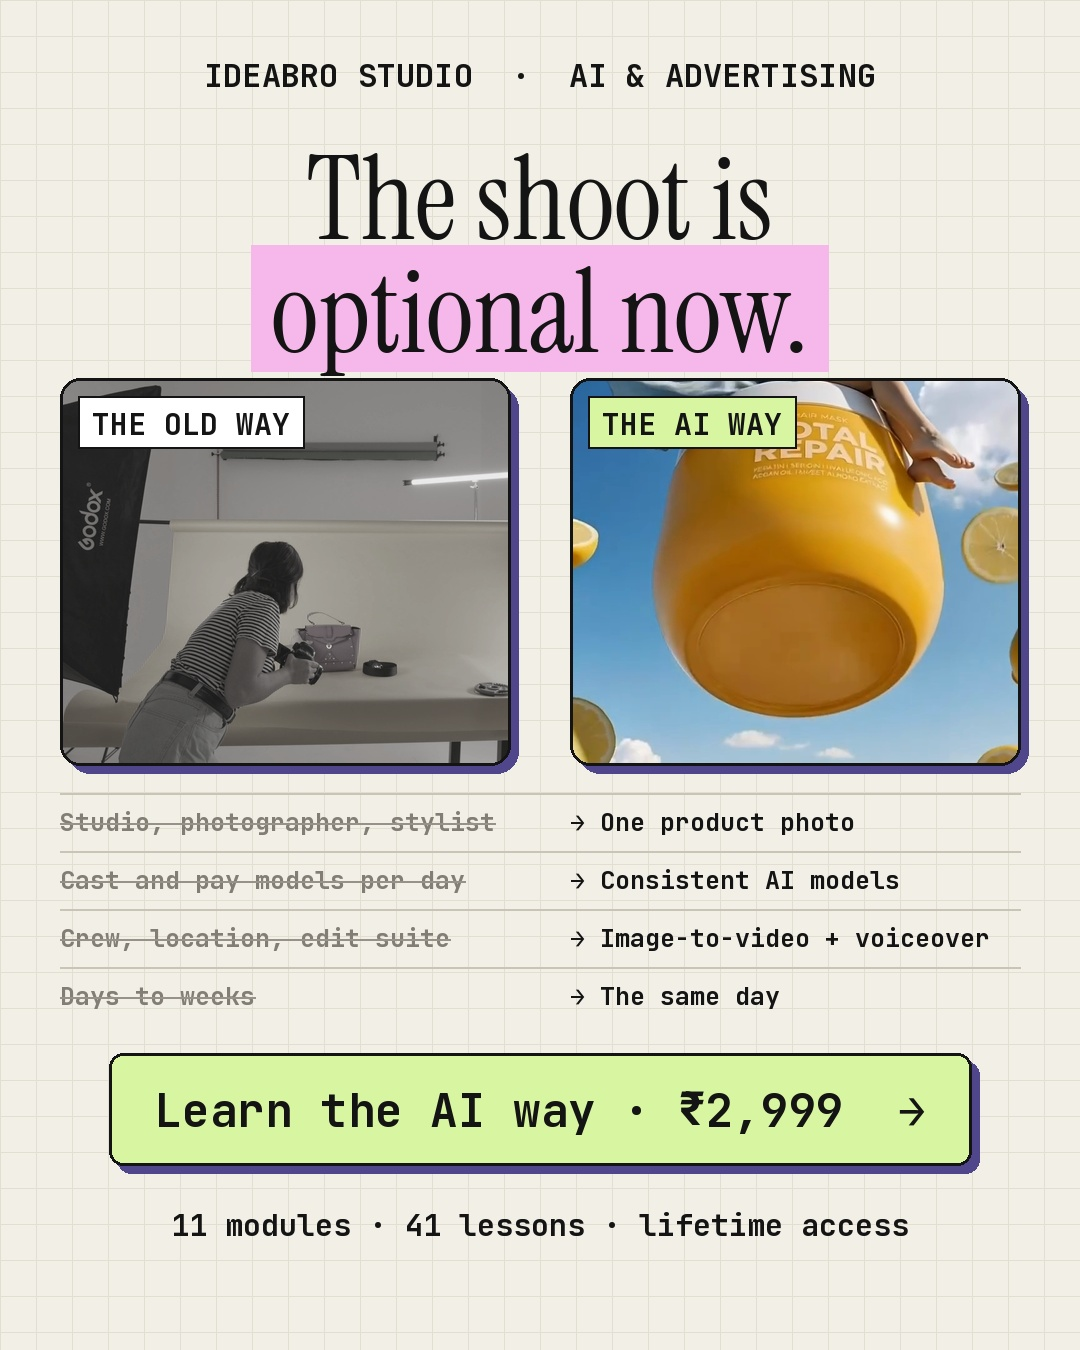
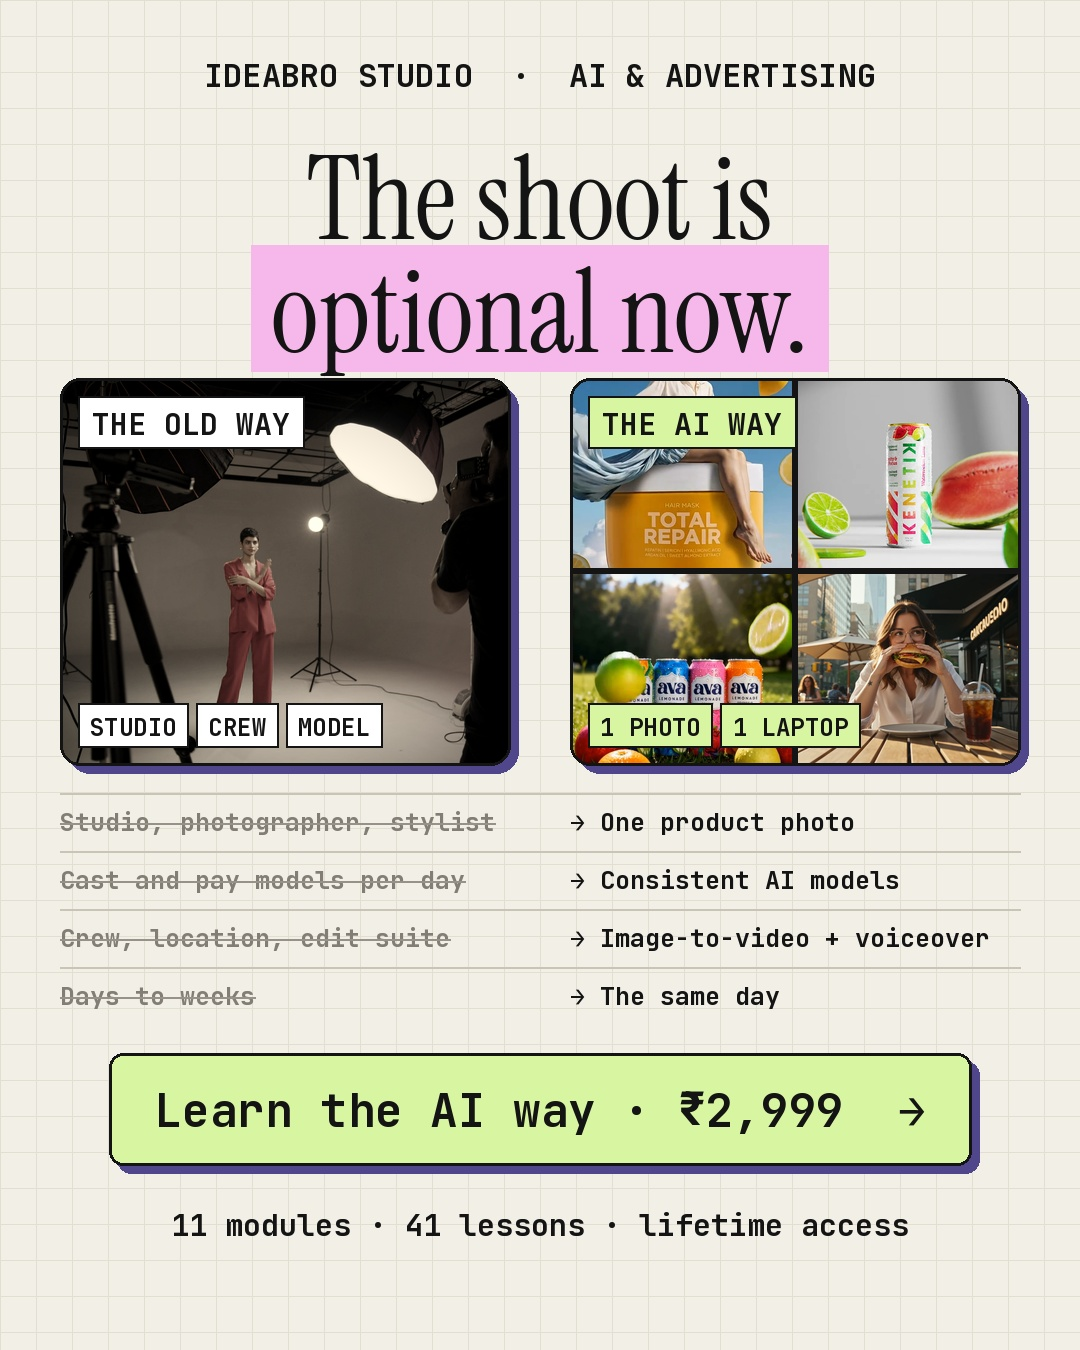
Ad 4: replace basic photos with studio production shot and AI output grid
Claude-Session: https://claude.ai/code/session_01SGFKi76PsVsa1eXjXUfYki

Changed region(s): [[0.5194, 0.28, 0.9472, 0.5911], [0.0611, 0.28, 0.4889, 0.5911]]

diff --git a/meta-ads-plan/ads/ad4_static.py b/meta-ads-plan/ads/ad4_static.py
@@ -16,10 +16,34 @@ ROWS = [("Studio, photographer, stylist", "One product photo"),
 
 
 def photo(src, t, w, h, fx=0.5, gray=False):
-    f = K.decode(src, t, 0.05, w, h, fx)[0]
-    if gray:
-        g = f.mean(axis=2, keepdims=True); f = (g * 0.9 + f * 0.1).astype(np.uint8); f = (f * 0.86 + 20).astype(np.uint8)
-    return Image.fromarray(f)
+    f = K.decode(src, t, 0.05, w, h, fx)[0].astype(np.float32)
+    if gray:   # muted, cinematic "old way" grade: mostly desaturated, warm, gentle vignette
+        g = f.mean(axis=2, keepdims=True); f = g * 0.72 + f * 0.28
+        f = (f - 128) * 1.12 + 128; f *= np.array([1.04, 1.0, 0.93])
+        yy, xx = np.mgrid[0:h, 0:w]; v = 1 - 0.35 * (((xx - w / 2) / (w / 2)) ** 2 + ((yy - h / 2) / (h / 2)) ** 2) ** 1.2 / 2
+        f *= v[..., None]
+    return Image.fromarray(np.clip(f, 0, 255).astype(np.uint8))
+
+
+def ai_grid(w, h, gap=6):
+    """2x2 grid of studio AI outputs on an ink background"""
+    S = {l.split()[0]: A(l.split()[1]) for l in open(A("studio", "index.txt"))}
+    tiles = [(S["V13"], 0.4, 0.5), (S["V09"], 14.6, 0.62), (S["V11"], 9.4, 0.5), (A("drive", "O_BAka.mp4"), 13.6, 0.5)]
+    tw, th = (w - gap) // 2, (h - gap) // 2
+    im = Image.new("RGB", (w, h), K.INK)
+    for k, (src, t, fx) in enumerate(tiles):
+        r, c = divmod(k, 2)
+        im.paste(Image.fromarray(K.decode(src, t, 0.05, tw, th, fx)[0]), (c * (tw + gap), r * (th + gap)))
+    return im
+
+
+def chips(im, x, y, w, h, words, bg):
+    d = ImageDraw.Draw(im); f = K.mono(24); cx = x + 18; cy = y + h - 18 - 44
+    for wd in words:
+        tw = d.textlength(wd, font=f)
+        if cx + tw + 24 > x + w - 12: break
+        d.rectangle([cx, cy, cx + tw + 24, cy + 44], fill=bg, outline=K.INK, width=2)
+        d.text((cx + 12, cy + 8), wd, font=f, fill=K.INK if bg != K.INK else K.WHITE); cx += tw + 24 + 8
 
 
 def card(im, img, x, y, w, h, label, lab_bg):
@@ -43,9 +67,11 @@ def build(W, H, path):
     d.rectangle([x - 20, y + 8, x + w + 20, y + asc + desc * 0.55], fill=K.PINK); d.text((x, y), t, font=f, fill=K.INK); y += int(fs * 1.22)
     # two photo cards
     cw = (W - 3 * 60) // 2; ch = int(cw * (1.32 if tall else 0.86))
-    old = photo(A("stock", "44119.mp4"), 3.6, cw, ch, 0.42, gray=True)
-    new = photo(A("studio", "1794509925138-fb291663-4730-49f2-b5ae-4cee07e984f0.mp4"), 3.0, cw, ch, 0.5)
+    old = photo(A("stock", "50639.mp4"), 1.0, cw, ch, 0.46, gray=True)
+    new = ai_grid(cw, ch)
     card(im, old, 60, y, cw, ch, "THE OLD WAY", K.WHITE); card(im, new, 120 + cw, y, cw, ch, "THE AI WAY", K.LIME)
+    chips(im, 60, y, cw, ch, ["STUDIO", "CREW", "MODEL"], K.WHITE)
+    chips(im, 120 + cw, y, cw, ch, ["1 PHOTO", "1 LAPTOP"], K.LIME)
     d = ImageDraw.Draw(im); y += ch + (56 if tall else 40)
     # comparison rows
     f1, f2 = K.mono(27 if tall else 25), K.mono(27 if tall else 25)
